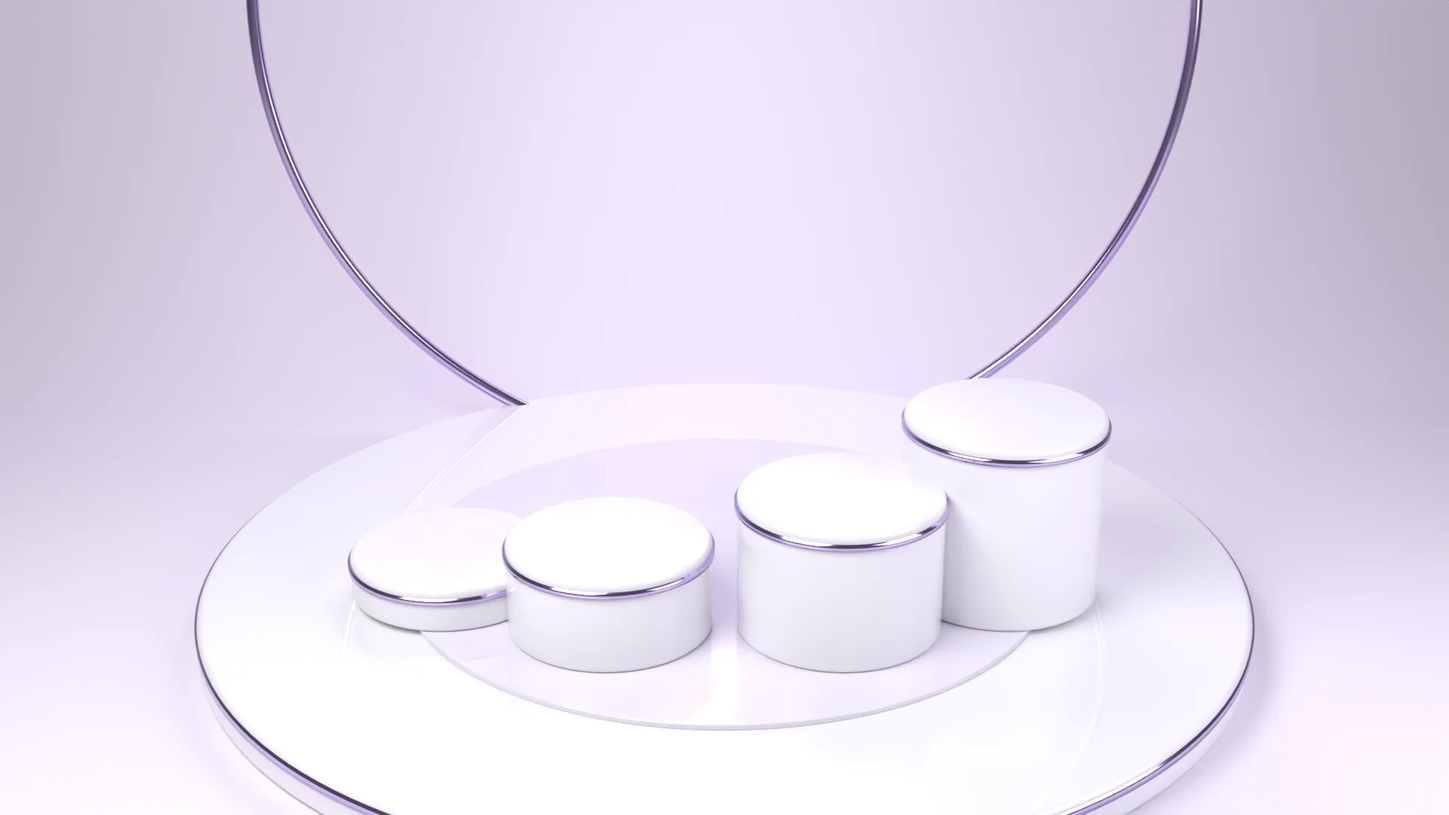
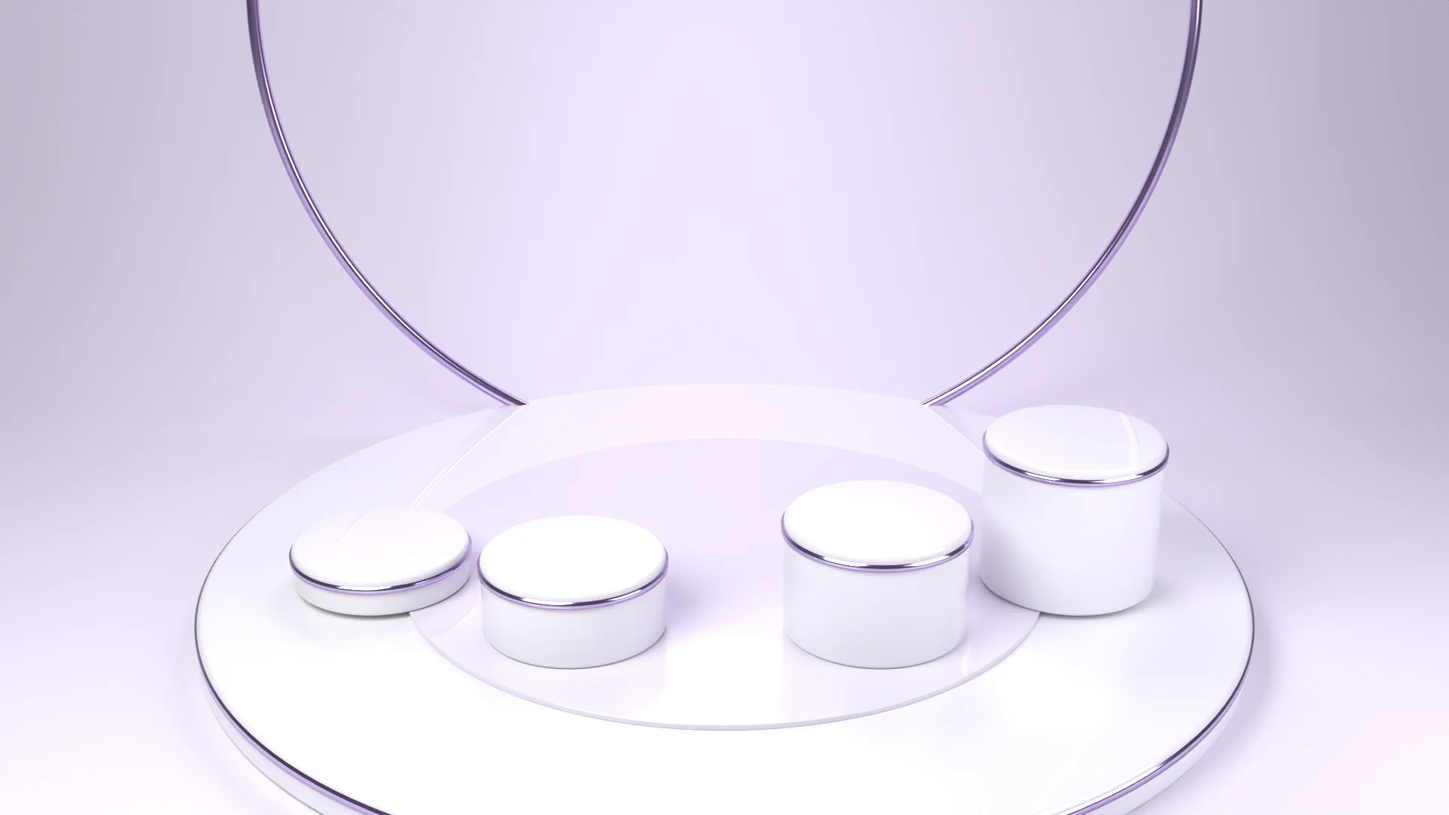
Ring glides, holds, glides; pedestals spaced wider
- ring moves one product at a time with an eased glide and a 3.4s hold, using GPU transforms only
- routine pedestals re-rendered further apart and lower
- long product names wrap in the routine list

Claude-Session: https://claude.ai/code/session_014dEHNPX74Ce4znYnmLNgN7

Changed region(s): [[0.1875, 0.4583, 0.8125, 0.825]]

diff --git a/assets/stage/stages.js b/assets/stage/stages.js
@@ -1,1 +1,1 @@
-window.APEX_STAGES={"plinth-wide": {"foot": [0.5, 0.66427], "unit_h": 0.20309, "size": [1920, 1080]}, "ring-wide": {"ring": [{"a": 0.0, "foot": [0.5, 0.97091], "unit_h": 0.16489}, {"a": 0.0873, "foot": [0.53149, 0.96957], "unit_h": 0.16477}, {"a": 0.1745, "foot": [0.56257, 0.96559], "unit_h": 0.16443}, {"a": 0.2618, "foot": [0.59284, 0.95902], "unit_h": 0.16384}, {"a": 0.3491, "foot": [0.62191, 0.95001], "unit_h": 0.16305}, {"a": 0.4363, "foot": [0.64945, 0.93869], "unit_h": 0.16204}, {"a": 0.5236, "foot": [0.67515, 0.92527], "unit_h": 0.16084}, {"a": 0.6109, "foot": [0.69874, 0.90997], "unit_h": 0.15946}, {"a": 0.6981, "foot": [0.72001, 0.89304], "unit_h": 0.15794}, {"a": 0.7854, "foot": [0.7388, 0.87472], "unit_h": 0.15627}, {"a": 0.8727, "foot": [0.755, 0.85528], "unit_h": 0.15449}, {"a": 0.9599, "foot": [0.76854, 0.83497], "unit_h": 0.15261}, {"a": 1.0472, "foot": [0.7794, 0.81404], "unit_h": 0.15065}, {"a": 1.1345, "foot": [0.78759, 0.79274], "unit_h": 0.14865}, {"a": 1.2217, "foot": [0.79317, 0.77128], "unit_h": 0.14662}, {"a": 1.309, "foot": [0.79621, 0.74988], "unit_h": 0.14458}, {"a": 1.3963, "foot": [0.79681, 0.72871], "unit_h": 0.14254}, {"a": 1.4835, "foot": [0.7951, 0.70795], "unit_h": 0.14053}, {"a": 1.5708, "foot": [0.7912, 0.68773], "unit_h": 0.13855}, {"a": 1.6581, "foot": [0.78525, 0.66819], "unit_h": 0.13663}, {"a": 1.7453, "foot": [0.77739, 0.64943], "unit_h": 0.13477}, {"a": 1.8326, "foot": [0.76778, 0.63155], "unit_h": 0.13299}, {"a": 1.9199, "foot": [0.75654, 0.61462], "unit_h": 0.13129}, {"a": 2.0071, "foot": [0.74384, 0.5987], "unit_h": 0.12968}, {"a": 2.0944, "foot": [0.7298, 0.58384], "unit_h": 0.12817}, {"a": 2.1817, "foot": [0.71456, 0.57009], "unit_h": 0.12677}, {"a": 2.2689, "foot": [0.69825, 0.55748], "unit_h": 0.12548}, {"a": 2.3562, "foot": [0.68098, 0.54602], "unit_h": 0.1243}, {"a": 2.4435, "foot": [0.66287, 0.53574], "unit_h": 0.12324}, {"a": 2.5307, "foot": [0.64404, 0.52666], "unit_h": 0.1223}, {"a": 2.618, "foot": [0.62458, 0.51877], "unit_h": 0.12148}, {"a": 2.7053, "foot": [0.6046, 0.51209], "unit_h": 0.12078}, {"a": 2.7925, "foot": [0.58419, 0.50662], "unit_h": 0.12021}, {"a": 2.8798, "foot": [0.56343, 0.50236], "unit_h": 0.11976}, {"a": 2.9671, "foot": [0.54243, 0.49932], "unit_h": 0.11944}, {"a": 3.0543, "foot": [0.52125, 0.4975], "unit_h": 0.11926}, {"a": 3.1416, "foot": [0.5, 0.49689], "unit_h": 0.11919}, {"a": 3.2289, "foot": [0.47875, 0.4975], "unit_h": 0.11926}, {"a": 3.3161, "foot": [0.45757, 0.49932], "unit_h": 0.11944}, {"a": 3.4034, "foot": [0.43657, 0.50236], "unit_h": 0.11976}, {"a": 3.4907, "foot": [0.41581, 0.50662], "unit_h": 0.12021}, {"a": 3.5779, "foot": [0.3954, 0.51209], "unit_h": 0.12078}, {"a": 3.6652, "foot": [0.37542, 0.51877], "unit_h": 0.12148}, {"a": 3.7525, "foot": [0.35596, 0.52666], "unit_h": 0.1223}, {"a": 3.8397, "foot": [0.33713, 0.53574], "unit_h": 0.12324}, {"a": 3.927, "foot": [0.31902, 0.54602], "unit_h": 0.1243}, {"a": 4.0143, "foot": [0.30175, 0.55748], "unit_h": 0.12548}, {"a": 4.1015, "foot": [0.28544, 0.57009], "unit_h": 0.12677}, {"a": 4.1888, "foot": [0.2702, 0.58384], "unit_h": 0.12817}, {"a": 4.2761, "foot": [0.25616, 0.5987], "unit_h": 0.12968}, {"a": 4.3633, "foot": [0.24346, 0.61462], "unit_h": 0.13129}, {"a": 4.4506, "foot": [0.23222, 0.63155], "unit_h": 0.13299}, {"a": 4.5379, "foot": [0.22261, 0.64943], "unit_h": 0.13477}, {"a": 4.6251, "foot": [0.21475, 0.66819], "unit_h": 0.13663}, {"a": 4.7124, "foot": [0.2088, 0.68773], "unit_h": 0.13855}, {"a": 4.7997, "foot": [0.2049, 0.70795], "unit_h": 0.14053}, {"a": 4.8869, "foot": [0.20319, 0.72871], "unit_h": 0.14254}, {"a": 4.9742, "foot": [0.20379, 0.74988], "unit_h": 0.14458}, {"a": 5.0615, "foot": [0.20683, 0.77128], "unit_h": 0.14662}, {"a": 5.1487, "foot": [0.21241, 0.79274], "unit_h": 0.14865}, {"a": 5.236, "foot": [0.2206, 0.81404], "unit_h": 0.15065}, {"a": 5.3233, "foot": [0.23146, 0.83497], "unit_h": 0.15261}, {"a": 5.4105, "foot": [0.245, 0.85528], "unit_h": 0.15449}, {"a": 5.4978, "foot": [0.2612, 0.87472], "unit_h": 0.15627}, {"a": 5.5851, "foot": [0.27999, 0.89304], "unit_h": 0.15794}, {"a": 5.6723, "foot": [0.30126, 0.90997], "unit_h": 0.15946}, {"a": 5.7596, "foot": [0.32485, 0.92527], "unit_h": 0.16084}, {"a": 5.8469, "foot": [0.35055, 0.93869], "unit_h": 0.16204}, {"a": 5.9341, "foot": [0.37809, 0.95001], "unit_h": 0.16305}, {"a": 6.0214, "foot": [0.40716, 0.95902], "unit_h": 0.16384}, {"a": 6.1087, "foot": [0.43743, 0.96559], "unit_h": 0.16443}, {"a": 6.1959, "foot": [0.46851, 0.96957], "unit_h": 0.16477}], "center": [0.5, 0.68773], "center_unit_h": 0.13855, "size": [1920, 1080]}, "plinth-tall": {"foot": [0.5, 0.60316], "unit_h": 0.12009, "size": [1080, 1350]}, "ring-tall": {"ring": [{"a": 0.0, "foot": [0.5, 0.77991], "unit_h": 0.08624}, {"a": 0.0873, "foot": [0.54017, 0.77894], "unit_h": 0.08619}, {"a": 0.1745, "foot": [0.57975, 0.77604], "unit_h": 0.08601}, {"a": 0.2618, "foot": [0.61817, 0.77128], "unit_h": 0.08572}, {"a": 0.3491, "foot": [0.65491, 0.76475], "unit_h": 0.08531}, {"a": 0.4363, "foot": [0.68948, 0.75659], "unit_h": 0.0848}, {"a": 0.5236, "foot": [0.72148, 0.74696], "unit_h": 0.08418}, {"a": 0.6109, "foot": [0.75057, 0.73605], "unit_h": 0.08347}, {"a": 0.6981, "foot": [0.77649, 0.72404], "unit_h": 0.08267}, {"a": 0.7854, "foot": [0.79905, 0.71114], "unit_h": 0.0818}, {"a": 0.8727, "foot": [0.81814, 0.69755], "unit_h": 0.08086}, {"a": 0.9599, "foot": [0.83374, 0.68345], "unit_h": 0.07985}, {"a": 1.0472, "foot": [0.84585, 0.66905], "unit_h": 0.07881}, {"a": 1.1345, "foot": [0.85456, 0.6545], "unit_h": 0.07774}, {"a": 1.2217, "foot": [0.85997, 0.63997], "unit_h": 0.07664}, {"a": 1.309, "foot": [0.86224, 0.62558], "unit_h": 0.07553}, {"a": 1.3963, "foot": [0.86155, 0.61147], "unit_h": 0.07442}, {"a": 1.4835, "foot": [0.85807, 0.59774], "unit_h": 0.07332}, {"a": 1.5708, "foot": [0.85201, 0.58447], "unit_h": 0.07224}, {"a": 1.6581, "foot": [0.84357, 0.57174], "unit_h": 0.07118}, {"a": 1.7453, "foot": [0.83295, 0.5596], "unit_h": 0.07015}, {"a": 1.8326, "foot": [0.82035, 0.54811], "unit_h": 0.06917}, {"a": 1.9199, "foot": [0.80597, 0.5373], "unit_h": 0.06824}, {"a": 2.0071, "foot": [0.78997, 0.5272], "unit_h": 0.06735}, {"a": 2.0944, "foot": [0.77254, 0.51782], "unit_h": 0.06651}, {"a": 2.1817, "foot": [0.75383, 0.50919], "unit_h": 0.06574}, {"a": 2.2689, "foot": [0.73399, 0.50131], "unit_h": 0.06503}, {"a": 2.3562, "foot": [0.71317, 0.49418], "unit_h": 0.06437}, {"a": 2.4435, "foot": [0.69148, 0.48781], "unit_h": 0.06378}, {"a": 2.5307, "foot": [0.66907, 0.4822], "unit_h": 0.06326}, {"a": 2.618, "foot": [0.64602, 0.47735], "unit_h": 0.06281}, {"a": 2.7053, "foot": [0.62245, 0.47324], "unit_h": 0.06242}, {"a": 2.7925, "foot": [0.59846, 0.46989], "unit_h": 0.06211}, {"a": 2.8798, "foot": [0.57413, 0.46729], "unit_h": 0.06186}, {"a": 2.9671, "foot": [0.54955, 0.46543], "unit_h": 0.06168}, {"a": 3.0543, "foot": [0.52482, 0.46432], "unit_h": 0.06158}, {"a": 3.1416, "foot": [0.5, 0.46395], "unit_h": 0.06155}, {"a": 3.2289, "foot": [0.47518, 0.46432], "unit_h": 0.06158}, {"a": 3.3161, "foot": [0.45045, 0.46543], "unit_h": 0.06168}, {"a": 3.4034, "foot": [0.42587, 0.46729], "unit_h": 0.06186}, {"a": 3.4907, "foot": [0.40154, 0.46989], "unit_h": 0.06211}, {"a": 3.5779, "foot": [0.37755, 0.47324], "unit_h": 0.06242}, {"a": 3.6652, "foot": [0.35398, 0.47735], "unit_h": 0.06281}, {"a": 3.7525, "foot": [0.33093, 0.4822], "unit_h": 0.06326}, {"a": 3.8397, "foot": [0.30852, 0.48781], "unit_h": 0.06378}, {"a": 3.927, "foot": [0.28683, 0.49418], "unit_h": 0.06437}, {"a": 4.0143, "foot": [0.26601, 0.50131], "unit_h": 0.06503}, {"a": 4.1015, "foot": [0.24617, 0.50919], "unit_h": 0.06574}, {"a": 4.1888, "foot": [0.22746, 0.51782], "unit_h": 0.06651}, {"a": 4.2761, "foot": [0.21003, 0.5272], "unit_h": 0.06735}, {"a": 4.3633, "foot": [0.19403, 0.5373], "unit_h": 0.06824}, {"a": 4.4506, "foot": [0.17965, 0.54811], "unit_h": 0.06917}, {"a": 4.5379, "foot": [0.16705, 0.5596], "unit_h": 0.07015}, {"a": 4.6251, "foot": [0.15643, 0.57174], "unit_h": 0.07118}, {"a": 4.7124, "foot": [0.14799, 0.58447], "unit_h": 0.07224}, {"a": 4.7997, "foot": [0.14193, 0.59774], "unit_h": 0.07332}, {"a": 4.8869, "foot": [0.13845, 0.61147], "unit_h": 0.07442}, {"a": 4.9742, "foot": [0.13776, 0.62558], "unit_h": 0.07553}, {"a": 5.0615, "foot": [0.14003, 0.63997], "unit_h": 0.07664}, {"a": 5.1487, "foot": [0.14544, 0.6545], "unit_h": 0.07774}, {"a": 5.236, "foot": [0.15415, 0.66905], "unit_h": 0.07881}, {"a": 5.3233, "foot": [0.16626, 0.68345], "unit_h": 0.07985}, {"a": 5.4105, "foot": [0.18186, 0.69755], "unit_h": 0.08086}, {"a": 5.4978, "foot": [0.20095, 0.71114], "unit_h": 0.0818}, {"a": 5.5851, "foot": [0.22351, 0.72404], "unit_h": 0.08267}, {"a": 5.6723, "foot": [0.24943, 0.73605], "unit_h": 0.08347}, {"a": 5.7596, "foot": [0.27852, 0.74696], "unit_h": 0.08418}, {"a": 5.8469, "foot": [0.31052, 0.75659], "unit_h": 0.0848}, {"a": 5.9341, "foot": [0.34509, 0.76475], "unit_h": 0.08531}, {"a": 6.0214, "foot": [0.38183, 0.77128], "unit_h": 0.08572}, {"a": 6.1087, "foot": [0.42025, 0.77604], "unit_h": 0.08601}, {"a": 6.1959, "foot": [0.45983, 0.77894], "unit_h": 0.08619}], "center": [0.5, 0.58447], "center_unit_h": 0.07224, "size": [1080, 1350]}, "steps-wide": {"steps": [{"foot": [0.31061, 0.67096], "unit_h": 0.14403, "face": [0.30223, 0.7557]}, {"foot": [0.41993, 0.65993], "unit_h": 0.15144, "face": [0.41665, 0.78011]}, {"foot": [0.58082, 0.60326], "unit_h": 0.15432, "face": [0.58371, 0.75423]}, {"foot": [0.69456, 0.50622], "unit_h": 0.1521, "face": [0.70027, 0.68046]}], "size": [1920, 1080]}};
+window.APEX_STAGES={"plinth-wide": {"foot": [0.5, 0.66427], "unit_h": 0.20309, "size": [1920, 1080]}, "ring-wide": {"ring": [{"a": 0.0, "foot": [0.5, 0.97091], "unit_h": 0.16489}, {"a": 0.0873, "foot": [0.53149, 0.96957], "unit_h": 0.16477}, {"a": 0.1745, "foot": [0.56257, 0.96559], "unit_h": 0.16443}, {"a": 0.2618, "foot": [0.59284, 0.95902], "unit_h": 0.16384}, {"a": 0.3491, "foot": [0.62191, 0.95001], "unit_h": 0.16305}, {"a": 0.4363, "foot": [0.64945, 0.93869], "unit_h": 0.16204}, {"a": 0.5236, "foot": [0.67515, 0.92527], "unit_h": 0.16084}, {"a": 0.6109, "foot": [0.69874, 0.90997], "unit_h": 0.15946}, {"a": 0.6981, "foot": [0.72001, 0.89304], "unit_h": 0.15794}, {"a": 0.7854, "foot": [0.7388, 0.87472], "unit_h": 0.15627}, {"a": 0.8727, "foot": [0.755, 0.85528], "unit_h": 0.15449}, {"a": 0.9599, "foot": [0.76854, 0.83497], "unit_h": 0.15261}, {"a": 1.0472, "foot": [0.7794, 0.81404], "unit_h": 0.15065}, {"a": 1.1345, "foot": [0.78759, 0.79274], "unit_h": 0.14865}, {"a": 1.2217, "foot": [0.79317, 0.77128], "unit_h": 0.14662}, {"a": 1.309, "foot": [0.79621, 0.74988], "unit_h": 0.14458}, {"a": 1.3963, "foot": [0.79681, 0.72871], "unit_h": 0.14254}, {"a": 1.4835, "foot": [0.7951, 0.70795], "unit_h": 0.14053}, {"a": 1.5708, "foot": [0.7912, 0.68773], "unit_h": 0.13855}, {"a": 1.6581, "foot": [0.78525, 0.66819], "unit_h": 0.13663}, {"a": 1.7453, "foot": [0.77739, 0.64943], "unit_h": 0.13477}, {"a": 1.8326, "foot": [0.76778, 0.63155], "unit_h": 0.13299}, {"a": 1.9199, "foot": [0.75654, 0.61462], "unit_h": 0.13129}, {"a": 2.0071, "foot": [0.74384, 0.5987], "unit_h": 0.12968}, {"a": 2.0944, "foot": [0.7298, 0.58384], "unit_h": 0.12817}, {"a": 2.1817, "foot": [0.71456, 0.57009], "unit_h": 0.12677}, {"a": 2.2689, "foot": [0.69825, 0.55748], "unit_h": 0.12548}, {"a": 2.3562, "foot": [0.68098, 0.54602], "unit_h": 0.1243}, {"a": 2.4435, "foot": [0.66287, 0.53574], "unit_h": 0.12324}, {"a": 2.5307, "foot": [0.64404, 0.52666], "unit_h": 0.1223}, {"a": 2.618, "foot": [0.62458, 0.51877], "unit_h": 0.12148}, {"a": 2.7053, "foot": [0.6046, 0.51209], "unit_h": 0.12078}, {"a": 2.7925, "foot": [0.58419, 0.50662], "unit_h": 0.12021}, {"a": 2.8798, "foot": [0.56343, 0.50236], "unit_h": 0.11976}, {"a": 2.9671, "foot": [0.54243, 0.49932], "unit_h": 0.11944}, {"a": 3.0543, "foot": [0.52125, 0.4975], "unit_h": 0.11926}, {"a": 3.1416, "foot": [0.5, 0.49689], "unit_h": 0.11919}, {"a": 3.2289, "foot": [0.47875, 0.4975], "unit_h": 0.11926}, {"a": 3.3161, "foot": [0.45757, 0.49932], "unit_h": 0.11944}, {"a": 3.4034, "foot": [0.43657, 0.50236], "unit_h": 0.11976}, {"a": 3.4907, "foot": [0.41581, 0.50662], "unit_h": 0.12021}, {"a": 3.5779, "foot": [0.3954, 0.51209], "unit_h": 0.12078}, {"a": 3.6652, "foot": [0.37542, 0.51877], "unit_h": 0.12148}, {"a": 3.7525, "foot": [0.35596, 0.52666], "unit_h": 0.1223}, {"a": 3.8397, "foot": [0.33713, 0.53574], "unit_h": 0.12324}, {"a": 3.927, "foot": [0.31902, 0.54602], "unit_h": 0.1243}, {"a": 4.0143, "foot": [0.30175, 0.55748], "unit_h": 0.12548}, {"a": 4.1015, "foot": [0.28544, 0.57009], "unit_h": 0.12677}, {"a": 4.1888, "foot": [0.2702, 0.58384], "unit_h": 0.12817}, {"a": 4.2761, "foot": [0.25616, 0.5987], "unit_h": 0.12968}, {"a": 4.3633, "foot": [0.24346, 0.61462], "unit_h": 0.13129}, {"a": 4.4506, "foot": [0.23222, 0.63155], "unit_h": 0.13299}, {"a": 4.5379, "foot": [0.22261, 0.64943], "unit_h": 0.13477}, {"a": 4.6251, "foot": [0.21475, 0.66819], "unit_h": 0.13663}, {"a": 4.7124, "foot": [0.2088, 0.68773], "unit_h": 0.13855}, {"a": 4.7997, "foot": [0.2049, 0.70795], "unit_h": 0.14053}, {"a": 4.8869, "foot": [0.20319, 0.72871], "unit_h": 0.14254}, {"a": 4.9742, "foot": [0.20379, 0.74988], "unit_h": 0.14458}, {"a": 5.0615, "foot": [0.20683, 0.77128], "unit_h": 0.14662}, {"a": 5.1487, "foot": [0.21241, 0.79274], "unit_h": 0.14865}, {"a": 5.236, "foot": [0.2206, 0.81404], "unit_h": 0.15065}, {"a": 5.3233, "foot": [0.23146, 0.83497], "unit_h": 0.15261}, {"a": 5.4105, "foot": [0.245, 0.85528], "unit_h": 0.15449}, {"a": 5.4978, "foot": [0.2612, 0.87472], "unit_h": 0.15627}, {"a": 5.5851, "foot": [0.27999, 0.89304], "unit_h": 0.15794}, {"a": 5.6723, "foot": [0.30126, 0.90997], "unit_h": 0.15946}, {"a": 5.7596, "foot": [0.32485, 0.92527], "unit_h": 0.16084}, {"a": 5.8469, "foot": [0.35055, 0.93869], "unit_h": 0.16204}, {"a": 5.9341, "foot": [0.37809, 0.95001], "unit_h": 0.16305}, {"a": 6.0214, "foot": [0.40716, 0.95902], "unit_h": 0.16384}, {"a": 6.1087, "foot": [0.43743, 0.96559], "unit_h": 0.16443}, {"a": 6.1959, "foot": [0.46851, 0.96957], "unit_h": 0.16477}], "center": [0.5, 0.68773], "center_unit_h": 0.13855, "size": [1920, 1080]}, "plinth-tall": {"foot": [0.5, 0.60316], "unit_h": 0.12009, "size": [1080, 1350]}, "ring-tall": {"ring": [{"a": 0.0, "foot": [0.5, 0.77991], "unit_h": 0.08624}, {"a": 0.0873, "foot": [0.54017, 0.77894], "unit_h": 0.08619}, {"a": 0.1745, "foot": [0.57975, 0.77604], "unit_h": 0.08601}, {"a": 0.2618, "foot": [0.61817, 0.77128], "unit_h": 0.08572}, {"a": 0.3491, "foot": [0.65491, 0.76475], "unit_h": 0.08531}, {"a": 0.4363, "foot": [0.68948, 0.75659], "unit_h": 0.0848}, {"a": 0.5236, "foot": [0.72148, 0.74696], "unit_h": 0.08418}, {"a": 0.6109, "foot": [0.75057, 0.73605], "unit_h": 0.08347}, {"a": 0.6981, "foot": [0.77649, 0.72404], "unit_h": 0.08267}, {"a": 0.7854, "foot": [0.79905, 0.71114], "unit_h": 0.0818}, {"a": 0.8727, "foot": [0.81814, 0.69755], "unit_h": 0.08086}, {"a": 0.9599, "foot": [0.83374, 0.68345], "unit_h": 0.07985}, {"a": 1.0472, "foot": [0.84585, 0.66905], "unit_h": 0.07881}, {"a": 1.1345, "foot": [0.85456, 0.6545], "unit_h": 0.07774}, {"a": 1.2217, "foot": [0.85997, 0.63997], "unit_h": 0.07664}, {"a": 1.309, "foot": [0.86224, 0.62558], "unit_h": 0.07553}, {"a": 1.3963, "foot": [0.86155, 0.61147], "unit_h": 0.07442}, {"a": 1.4835, "foot": [0.85807, 0.59774], "unit_h": 0.07332}, {"a": 1.5708, "foot": [0.85201, 0.58447], "unit_h": 0.07224}, {"a": 1.6581, "foot": [0.84357, 0.57174], "unit_h": 0.07118}, {"a": 1.7453, "foot": [0.83295, 0.5596], "unit_h": 0.07015}, {"a": 1.8326, "foot": [0.82035, 0.54811], "unit_h": 0.06917}, {"a": 1.9199, "foot": [0.80597, 0.5373], "unit_h": 0.06824}, {"a": 2.0071, "foot": [0.78997, 0.5272], "unit_h": 0.06735}, {"a": 2.0944, "foot": [0.77254, 0.51782], "unit_h": 0.06651}, {"a": 2.1817, "foot": [0.75383, 0.50919], "unit_h": 0.06574}, {"a": 2.2689, "foot": [0.73399, 0.50131], "unit_h": 0.06503}, {"a": 2.3562, "foot": [0.71317, 0.49418], "unit_h": 0.06437}, {"a": 2.4435, "foot": [0.69148, 0.48781], "unit_h": 0.06378}, {"a": 2.5307, "foot": [0.66907, 0.4822], "unit_h": 0.06326}, {"a": 2.618, "foot": [0.64602, 0.47735], "unit_h": 0.06281}, {"a": 2.7053, "foot": [0.62245, 0.47324], "unit_h": 0.06242}, {"a": 2.7925, "foot": [0.59846, 0.46989], "unit_h": 0.06211}, {"a": 2.8798, "foot": [0.57413, 0.46729], "unit_h": 0.06186}, {"a": 2.9671, "foot": [0.54955, 0.46543], "unit_h": 0.06168}, {"a": 3.0543, "foot": [0.52482, 0.46432], "unit_h": 0.06158}, {"a": 3.1416, "foot": [0.5, 0.46395], "unit_h": 0.06155}, {"a": 3.2289, "foot": [0.47518, 0.46432], "unit_h": 0.06158}, {"a": 3.3161, "foot": [0.45045, 0.46543], "unit_h": 0.06168}, {"a": 3.4034, "foot": [0.42587, 0.46729], "unit_h": 0.06186}, {"a": 3.4907, "foot": [0.40154, 0.46989], "unit_h": 0.06211}, {"a": 3.5779, "foot": [0.37755, 0.47324], "unit_h": 0.06242}, {"a": 3.6652, "foot": [0.35398, 0.47735], "unit_h": 0.06281}, {"a": 3.7525, "foot": [0.33093, 0.4822], "unit_h": 0.06326}, {"a": 3.8397, "foot": [0.30852, 0.48781], "unit_h": 0.06378}, {"a": 3.927, "foot": [0.28683, 0.49418], "unit_h": 0.06437}, {"a": 4.0143, "foot": [0.26601, 0.50131], "unit_h": 0.06503}, {"a": 4.1015, "foot": [0.24617, 0.50919], "unit_h": 0.06574}, {"a": 4.1888, "foot": [0.22746, 0.51782], "unit_h": 0.06651}, {"a": 4.2761, "foot": [0.21003, 0.5272], "unit_h": 0.06735}, {"a": 4.3633, "foot": [0.19403, 0.5373], "unit_h": 0.06824}, {"a": 4.4506, "foot": [0.17965, 0.54811], "unit_h": 0.06917}, {"a": 4.5379, "foot": [0.16705, 0.5596], "unit_h": 0.07015}, {"a": 4.6251, "foot": [0.15643, 0.57174], "unit_h": 0.07118}, {"a": 4.7124, "foot": [0.14799, 0.58447], "unit_h": 0.07224}, {"a": 4.7997, "foot": [0.14193, 0.59774], "unit_h": 0.07332}, {"a": 4.8869, "foot": [0.13845, 0.61147], "unit_h": 0.07442}, {"a": 4.9742, "foot": [0.13776, 0.62558], "unit_h": 0.07553}, {"a": 5.0615, "foot": [0.14003, 0.63997], "unit_h": 0.07664}, {"a": 5.1487, "foot": [0.14544, 0.6545], "unit_h": 0.07774}, {"a": 5.236, "foot": [0.15415, 0.66905], "unit_h": 0.07881}, {"a": 5.3233, "foot": [0.16626, 0.68345], "unit_h": 0.07985}, {"a": 5.4105, "foot": [0.18186, 0.69755], "unit_h": 0.08086}, {"a": 5.4978, "foot": [0.20095, 0.71114], "unit_h": 0.0818}, {"a": 5.5851, "foot": [0.22351, 0.72404], "unit_h": 0.08267}, {"a": 5.6723, "foot": [0.24943, 0.73605], "unit_h": 0.08347}, {"a": 5.7596, "foot": [0.27852, 0.74696], "unit_h": 0.08418}, {"a": 5.8469, "foot": [0.31052, 0.75659], "unit_h": 0.0848}, {"a": 5.9341, "foot": [0.34509, 0.76475], "unit_h": 0.08531}, {"a": 6.0214, "foot": [0.38183, 0.77128], "unit_h": 0.08572}, {"a": 6.1087, "foot": [0.42025, 0.77604], "unit_h": 0.08601}, {"a": 6.1959, "foot": [0.45983, 0.77894], "unit_h": 0.08619}], "center": [0.5, 0.58447], "center_unit_h": 0.07224, "size": [1080, 1350]}, "steps-wide": {"steps": [{"foot": [0.26254, 0.66336], "unit_h": 0.1426, "face": [0.25205, 0.74444]}, {"foot": [0.39526, 0.67753], "unit_h": 0.15076, "face": [0.39081, 0.78916]}, {"foot": [0.60551, 0.63308], "unit_h": 0.15302, "face": [0.60956, 0.76878]}, {"foot": [0.7425, 0.53532], "unit_h": 0.14879, "face": [0.75039, 0.68574]}], "size": [1920, 1080]}};

diff --git a/assets/js/apex-shop.js b/assets/js/apex-shop.js
@@ -212,19 +212,24 @@
     el.style.top = foot[1] * 100 + "%";
     el.style.transform = `translate(-50%,-100%) ${extra}`;
   }
-  // Ring: products travel along the platform's rim (72 sampled points from Blender's camera)
-  // Ring: products glide along the platform rim (72 points sampled from Blender's camera).
-  // The ring never snaps: it turns slowly and keeps moving, easing down as each product reaches the front.
+  // Ring: products travel along the platform rim (72 points sampled from Blender's camera).
+  // Motion: glide to the next product, hold, glide again. Positions use GPU transforms only,
+  // so nothing on the page is laid out again while the ring moves.
   function ring(host, opts) {
     const api = { items: [], theta: 0, onFront: opts.onFront || (() => {}) };
-    let data, st, raf, front = -1, hover = false, drag = null, tween = null, inertia = 0, speedK = 1, last = 0, built = false;
-    const secPerItem = opts.secPerItem || 5.5;
+    const HOLD = opts.hold || 3400, GLIDE = opts.glide || 1600;
+    let data, st, W = 0, H = 0, front = -1, hover = false, drag = null, anim = null, holdUntil = 0, raf, built = false;
     const pick = () => matchMedia("(max-width:767px)").matches ? opts.tall : opts.wide;
-    const ease = t => t < .5 ? 4 * t * t * t : 1 - Math.pow(-2 * t + 2, 3) / 2;
+    const ease = t => t < .5 ? 4 * t * t * t : 1 - Math.pow(-2 * t + 2, 3) / 2; // slow out, glide, slow in
+    const step = () => 2 * Math.PI / Math.max(api.items.length, 1);
+    const k = () => (api.tall ? opts.kTall : opts.k) || 2.1, mw = () => api.tall ? opts.maxWTall : opts.maxW;
     async function build() {
       const name = pick(); api.tall = name === opts.tall; data = await spots(name);
-      host.innerHTML = ""; st = stageEl(name, data.size); host.append(st);
-      api.stage = st; set(api.list || opts.list, true); bindDrag();
+      data.uMax = Math.max(...data.ring.map(r => r.unit_h));
+      host.innerHTML = ""; st = stageEl(name, data.size); host.append(st); api.stage = st;
+      new ResizeObserver(() => { W = st.clientWidth; H = st.clientHeight; size(); frame(); }).observe(st);
+      W = st.clientWidth; H = st.clientHeight;
+      set(api.list || opts.list, true); bindDrag();
       if (!built) { built = true; loop(); }
     }
     function sample(a) {
@@ -233,81 +238,78 @@
       const A = data.ring[i], B = data.ring[j];
       return { x: A.foot[0] + (B.foot[0] - A.foot[0]) * f, y: A.foot[1] + (B.foot[1] - A.foot[1]) * f, u: A.unit_h + (B.unit_h - A.unit_h) * f };
     }
+    function size() { // each product's full size at the front of the ring; elsewhere it is scaled down
+      api.items.forEach(it => {
+        let u = units(it.p, k()); if (mw() && u * it.p.ratio > mw()) u = mw() / it.p.ratio;
+        it.h0 = data.uMax * u * H; it.w0 = it.h0 * it.p.ratio;
+        it.el.style.height = it.h0 + "px"; it.el.style.width = it.w0 + "px";
+      });
+    }
     function set(list, instant) {
       api.list = list;
       const old = api.items; api.items = [];
-      old.forEach(it => { const an = it.el.animate([{ opacity: 1 }, { opacity: 0, transform: it.el.style.transform + " translateY(-4%)" }], { duration: instant ? 0 : 380, easing: "ease-in", fill: "forwards" }); an.onfinish = () => it.el.remove(); });
+      old.forEach(it => { const an = it.el.animate([{ opacity: 1 }, { opacity: 0 }], { duration: instant ? 0 : 380, easing: "ease-in", fill: "forwards" }); an.onfinish = () => it.el.remove(); });
       setTimeout(() => {
         list.forEach((slug, i) => {
           const p = BY[slug], el = itemEl(p);
+          el.classList.add("on-ring");
           el.onclick = () => { if (!api.dragged) go(i); };
           el.onkeydown = e => { if (e.key === "Enter" || e.key === " ") { e.preventDefault(); go(i); } };
-          el.style.opacity = "0";
-          st.append(el); api.items.push({ p, el, i });
-          el.animate([{ opacity: 0 }, { opacity: 1 }], { duration: 650, delay: i * 60, easing: "ease-out", fill: "forwards" });
+          st.append(el); api.items.push({ p, el, i, z: 0 });
+          el.animate([{ opacity: 0 }, { opacity: 1 }], { duration: 650, delay: i * 60, easing: "ease-out", fill: "backwards" });
         });
-        api.theta = 0; tween = null; front = -1; frame();
+        api.theta = 0; anim = null; front = -1; size(); frame(); announce(0); holdUntil = performance.now() + HOLD;
       }, instant ? 0 : 380);
     }
-    const step = () => 2 * Math.PI / Math.max(api.items.length, 1);
-    function go(i) { // ease item i to the front the shortest way round
-      if (!api.items.length) return;
+    function announce(f) { if (f !== front && api.items[f]) { front = f; api.front = api.items[f]; api.onFront(api.items[f].p, f); } }
+    function glideTo(i, dur) {
+      const n = api.items.length; if (!n) return;
       let d = -i * step() - api.theta; d = Math.atan2(Math.sin(d), Math.cos(d));
-      tween = { from: api.theta, to: api.theta + d, t0: performance.now(), dur: 900 + Math.abs(d) * 420 };
+      anim = { from: api.theta, to: api.theta + d, t0: performance.now(), dur: dur || GLIDE * Math.max(1, Math.sqrt(Math.abs(d) / step())), idx: ((i % n) + n) % n, told: false };
     }
+    const go = i => glideTo(i);
     api.go = go;
-    api.next = d => { const n = api.items.length; if (!n) return; go((front + d + n) % n); };
+    api.next = d => { const n = api.items.length; if (n) glideTo((front + d + n) % n); };
     function frame() {
-      const n = api.items.length;
+      if (!W) return;
       api.items.forEach((it, i) => {
-        const a = api.theta + i * step(), s = sample(a);
-        const depth = (Math.cos(a) + 1) / 2; // 1 = front
-        put(it.el, it.p, [s.x, s.y], s.u, (api.tall ? opts.kTall : opts.k) || 2.1, "", api.tall ? opts.maxWTall : opts.maxW);
-        it.el.style.zIndex = 10 + Math.round(s.y * 1000);
-        it.el.style.filter = `brightness(${0.93 + depth * 0.07})`;
+        const s = sample(api.theta + i * step()), sc = s.u / data.uMax;
+        it.el.style.transform = `translate3d(${(s.x * W - it.w0 / 2).toFixed(2)}px,${(s.y * H - it.h0).toFixed(2)}px,0) scale(${sc.toFixed(4)})`;
+        const z = 10 + Math.round(s.y * 1000); if (z !== it.z) { it.z = z; it.el.style.zIndex = z; }
       });
-      if (n) {
-        const f = ((Math.round(-api.theta / step()) % n) + n) % n;
-        if (f !== front) { front = f; api.front = api.items[f]; api.onFront(api.items[f].p, f); }
-      }
     }
     function loop() {
       const tick = now => {
-        const dt = Math.min((now - (last || now)) / 1000, 0.05); last = now;
         if (data && api.items.length) {
-          if (tween) {
-            const t = Math.min((now - tween.t0) / tween.dur, 1);
-            api.theta = tween.from + (tween.to - tween.from) * ease(t);
-            if (t >= 1) { tween = null; speedK = 0; }
-          } else if (drag) {
-            // the pointer moves the ring directly
-          } else if (Math.abs(inertia) > 0.0005) {
-            api.theta += inertia * dt; inertia *= Math.pow(0.04, dt);
-          } else if (api.items.length > 1 && !document.hidden) {
-            // slow continuous turn that lingers as each product passes the front
-            const want = hover ? 0 : 1; speedK += (want - speedK) * Math.min(dt * 1.6, 1);
-            const ph = ((-api.theta / step()) % 1 + 1) % 1, linger = 0.28 + 0.72 * Math.pow(Math.sin(Math.PI * ph), 2);
-            api.theta -= step() / secPerItem * linger * speedK * dt * 1.55;
-          }
-          frame();
+          if (anim) {
+            const t = Math.min((now - anim.t0) / anim.dur, 1);
+            api.theta = anim.from + (anim.to - anim.from) * ease(t);
+            if (t > 0.35 && !anim.told) { anim.told = true; announce(anim.idx); }
+            if (t >= 1) { anim = null; holdUntil = now + HOLD; }
+            frame();
+          } else if (!drag && !hover && !document.hidden && api.items.length > 1 && now > holdUntil) {
+            api.next(1);
+          } else if (hover) holdUntil = Math.max(holdUntil, now + 1200);
         }
         raf = requestAnimationFrame(tick);
       };
       raf = requestAnimationFrame(tick);
     }
     function bindDrag() {
-      st.addEventListener("pointerdown", e => { drag = { x: e.clientX, th: api.theta, lx: e.clientX, lt: performance.now(), v: 0 }; tween = null; api.dragged = false; });
+      st.addEventListener("pointerdown", e => { drag = { x: e.clientX, th: api.theta }; anim = null; api.dragged = false; });
       st.addEventListener("mouseenter", () => hover = true);
       st.addEventListener("mouseleave", () => hover = false);
     }
     addEventListener("pointermove", e => {
-      if (!drag || !st) return;
+      if (!drag || !W) return;
       const dx = e.clientX - drag.x; if (Math.abs(dx) > 6) api.dragged = true;
-      const now = performance.now(), k = Math.PI * 1.3 / st.clientWidth;
-      drag.v = (e.clientX - drag.lx) * k / Math.max((now - drag.lt) / 1000, 0.008); drag.lx = e.clientX; drag.lt = now;
-      api.theta = drag.th + dx * k;
+      api.theta = drag.th + dx * Math.PI * 1.3 / W; frame();
     });
-    addEventListener("pointerup", () => { if (!drag) return; inertia = Math.max(-6, Math.min(6, drag.v)); drag = null; speedK = 0; setTimeout(() => api.dragged = false, 0); });
+    addEventListener("pointerup", () => {
+      if (!drag) return; drag = null;
+      const n = api.items.length, i = ((Math.round(-api.theta / step()) % n) + n) % n;
+      glideTo(i, 700); setTimeout(() => api.dragged = false, 0);
+    });
     let w = matchMedia("(max-width:767px)").matches;
     addEventListener("resize", () => { const m = matchMedia("(max-width:767px)").matches; if (m !== w) { w = m; build(); } });
     api.set = l => set(l);

diff --git a/index.html b/index.html
@@ -43,7 +43,7 @@ a.card:hover{transform:translateY(-6px);box-shadow:0 30px 60px -30px rgba(60,47,
     <a class="card" href="v1-category-ring/index.html">
       <div class="shot"><img src="assets/thumbs/v1-d.jpg" alt=""><img class="m" src="assets/thumbs/v1-m.jpg" alt=""></div>
       <div class="info"><div class="n">Version 1</div><div class="t">Category ring</div>
-      <p class="d">The Doctor Younger showroom, split by category so each ring holds 1 to 7 products. The ring turns slowly on its own and slows as each product reaches the front, and dragging or tapping a product brings it round.</p></div>
+      <p class="d">The Doctor Younger showroom, split by category so each ring holds 1 to 7 products. The ring glides to the next product, holds it at the front for a few seconds, then glides on. Dragging or tapping a product brings it round.</p></div>
     </a>
     <a class="card" href="v2-routine-shelf/index.html">
       <div class="shot"><img src="assets/thumbs/v2-d.jpg" alt=""><img class="m" src="assets/thumbs/v2-m.jpg" alt=""></div>

diff --git a/assets/js/v/parts.js b/assets/js/v/parts.js
@@ -31,7 +31,7 @@
     const info = infoPanel({ nav: d => r.next(d) });
     const stageHost = h("div", {});
     host.append(h("div", { class: "ring-grid" }, h("div", {}, chips || null, chips ? h("div", { style: "height:16px" }) : null, stageHost), info));
-    r = ring(stageHost, { wide: "ring-wide", tall: "ring-tall", list, secPerItem: 5.5, k: 2.35, kTall: 3.1, maxW: 1.9, maxWTall: 2.1,
+    r = ring(stageHost, { wide: "ring-wide", tall: "ring-tall", list, hold: 3400, glide: 1600, k: 2.35, kTall: 3.1, maxW: 1.9, maxWTall: 2.1,
       onFront: (p, i) => info.show(p, i, r ? r.items.length : list.length) });
     return r;
   }

diff --git a/assets/css/apex-shop.css b/assets/css/apex-shop.css
@@ -308,3 +308,8 @@
 .ax .ring-grid.flip{grid-template-columns:minmax(0,1fr) minmax(0,1.65fr)}
 @media (max-width:1024px){.ax .ring-grid.flip{grid-template-columns:minmax(0,1fr)}}
 .ax-drawer .panel:focus{outline:none}
+/* ring items move by transform only */
+.ax .item.on-ring{left:0;top:0;transform-origin:50% 100%;will-change:transform;backface-visibility:hidden;contain:layout style}
+.ax .item.on-ring img{will-change:auto}
+.ax .step>div{min-width:0}.ax .step .n{overflow-wrap:anywhere}
+.ax .step{white-space:normal;text-align:left}

diff --git a/project/tools/stages.py b/project/tools/stages.py
@@ -175,13 +175,13 @@ elif stage == "steps":
     stone = mat("stone", (0.95, 0.94, 0.97, 1), rough=0.3, coat=0.7)
     chrome = mat("chrome2", LILAC, rough=0.12, metal=1.0)
     out_steps = []
-    for i, ang in enumerate([-58, -20, 20, 58]):
+    for i, ang in enumerate([-64, -22, 22, 64]):
         a = math.radians(ang)
-        x, y = math.sin(a) * 2.55, -math.cos(a) * 1.55 + 0.35
-        hgt = 0.35 + i * 0.38
-        bpy.ops.mesh.primitive_cylinder_add(vertices=128, radius=0.78, depth=hgt, location=(x, y, top + hgt / 2))
+        x, y = math.sin(a) * 3.05, -math.cos(a) * 1.7 + 0.45
+        hgt = 0.32 + i * 0.3
+        bpy.ops.mesh.primitive_cylinder_add(vertices=128, radius=0.7, depth=hgt, location=(x, y, top + hgt / 2))
         add(bevel(bpy.context.object, 0.04), stone)
-        bpy.ops.mesh.primitive_cylinder_add(vertices=128, radius=0.8, depth=0.05, location=(x, y, top + hgt - 0.09))
+        bpy.ops.mesh.primitive_cylinder_add(vertices=128, radius=0.72, depth=0.05, location=(x, y, top + hgt - 0.09))
         add(bpy.context.object, chrome)
         t = top + hgt
         f0 = proj((x, y, t)); f1 = proj((x, y, t + 1))
